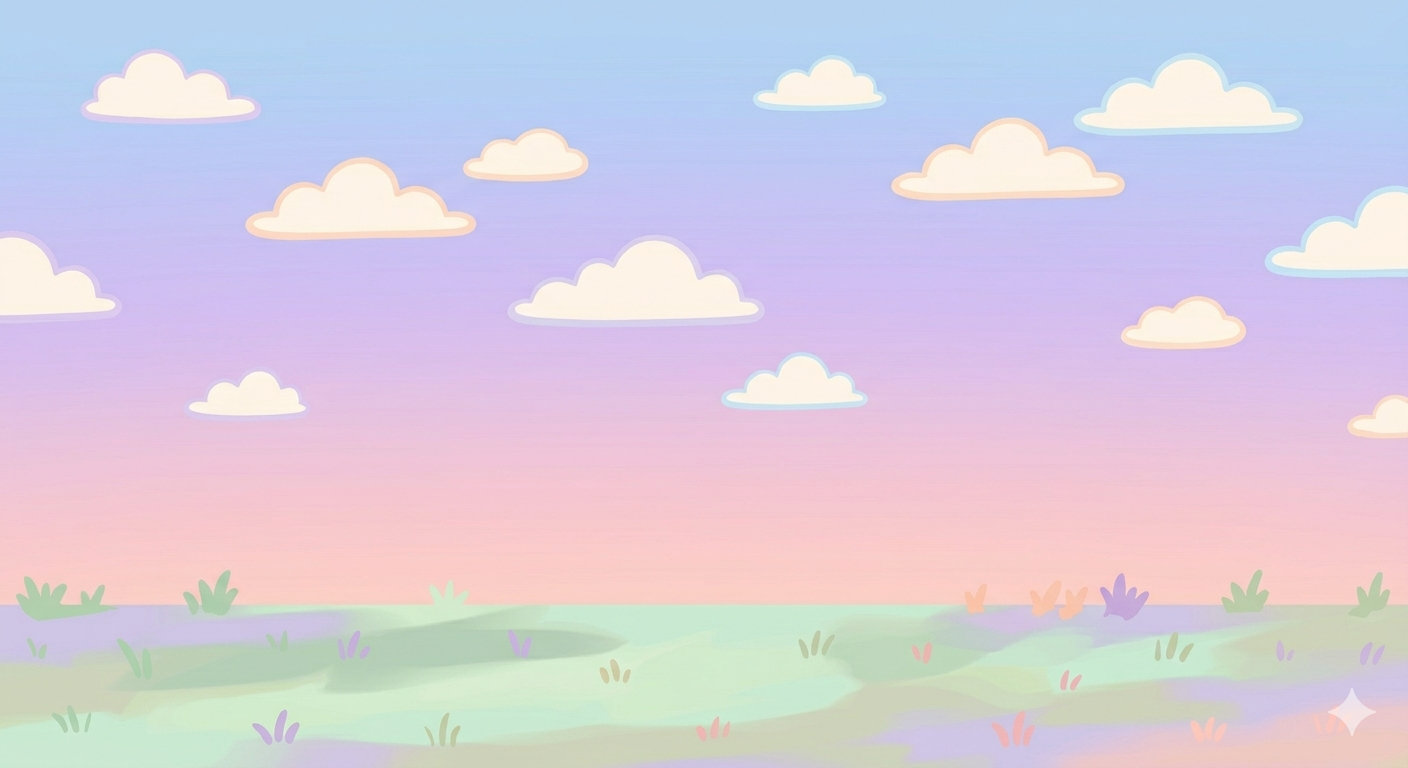
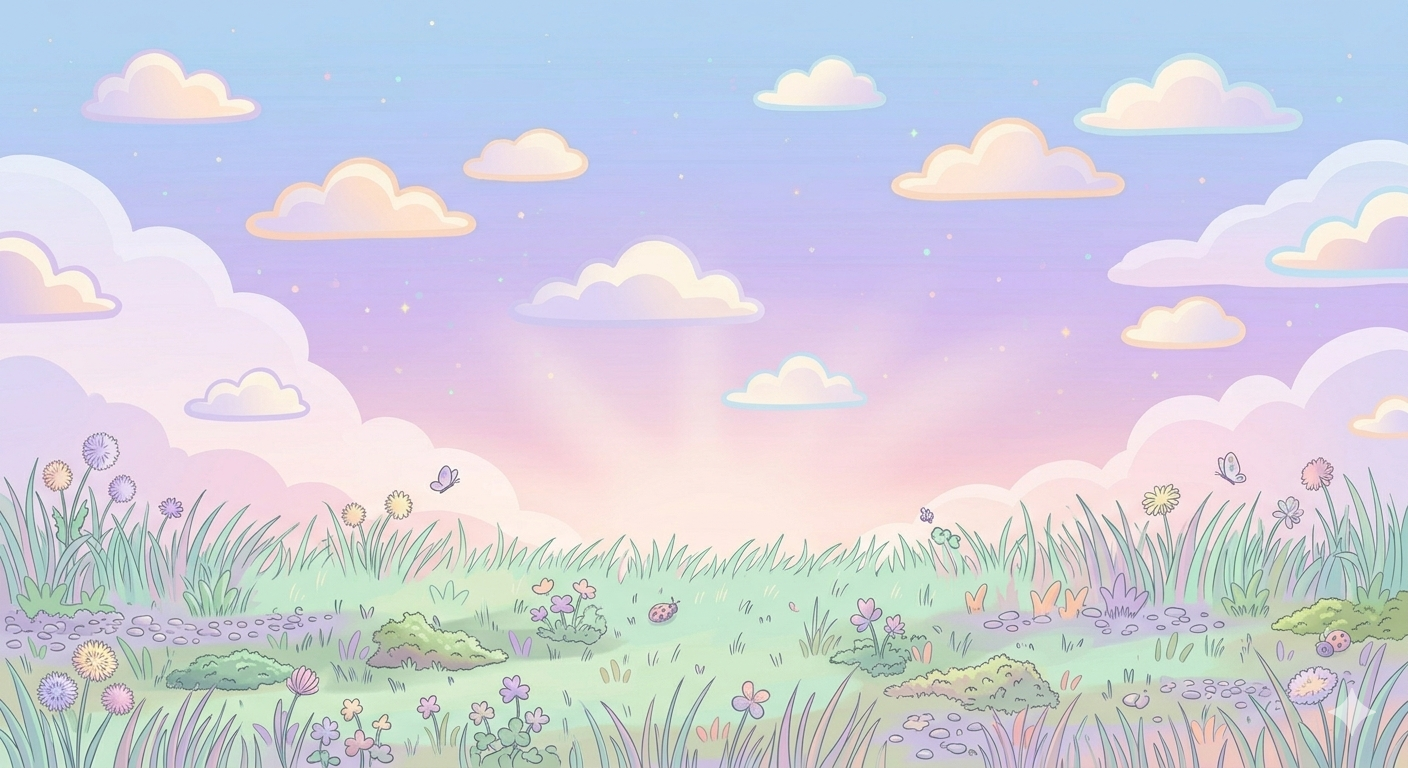
update

diff --git a/scripts/shruti-birthday.js b/scripts/shruti-birthday.js
@@ -2,7 +2,7 @@ let gifts = [];
 let girl;
 let score = 0;
 let currentGift = null;
-let text_size = 30;
+let text_size = 20;
 let animations = {}; // Container for all your GIFs
 let currentAnimation;
 let isMovingLeft = false;
@@ -19,7 +19,7 @@ function preload() {
   animations.content = loadGif('../store/game-store/content.gif');
   animations.angry = loadGif('../store/game-store/angry.gif');
   animations.disappointed = loadGif('../store/game-store/disappointed.gif');
-  bgImg = loadImage('../store/bg2.png');
+  bgImg = loadImage('../store/bg3.png');
 }
 
 class Confetti {
@@ -106,6 +106,20 @@ function draw() {
   pop();
   
 
+// Adjust this number to change difficulty: 
+// 60 means 1 gift every second (since p5 runs at 60fps)
+  if (frameCount % 60 === 0) {
+    let newGift = {
+      x: random(50, width - 50), // Random horizontal position
+      y: -10,                    // Start just above the screen
+      size: random(20, 50),      // Random value/size
+      fallSpeed: random(2, 3)    // Random falling speed
+    };
+    
+    gifts.push(newGift);
+  }
+
+
   // --- ANIMATION STATE LOGIC ---
   // --- 1. DECIDE THE STATE ---
   let newState = "";
@@ -171,7 +185,7 @@ function draw() {
     closest = gifts[0];
     target = {
       set: false,
-      time_to_reach: 9999,
+      time_to_reach: 99999,
       gift: gifts[0]
     };
     for (let i = gifts.length - 1; i >= 0; i--) {
@@ -262,7 +276,7 @@ function draw() {
     // Check for "Catch" (Collision)
     if (d < sprite_size/2) {
       gifts.splice(i, 1);
-      score += g.size;
+      score += ceil(g.size);
       text_size = text_size*1.2;
       state = "content"; 
       if (g.size > 60)
